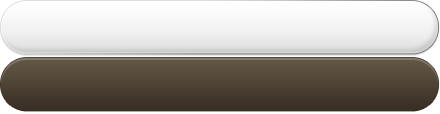
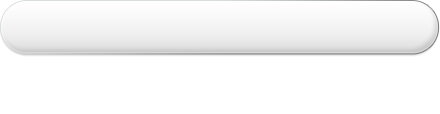
Coming soon button changed

diff --git a/assets/css/styles.css b/assets/css/styles.css
@@ -31,20 +31,7 @@ a:focus {
     width: 160px;
     height: 160px;
 }
-.get_notified{
-  width: 440px;
-  height: 57px;
-  margin: auto;
-  /*margin-top: 40px;*/
-  /*float: left;*/
-  background: url(../images/buttons/button.png) left top no-repeat;
-  font-size: 26px;
-  color: #23a889;
-  text-decoration: none;
-  font-weight: 200;
-  text-align: center;
-  line-height: 54px;
-}
+
 /* //End */
 
 .btn {
@@ -454,6 +441,20 @@ select {
 .promo .overview .download-area {
   display: inline-block;
 }
+.promo .overview .get_notified{
+  width: 440px;
+  height: 57px;
+  margin: auto;
+  background: url(../images/buttons/button.png) left top no-repeat;
+  font-size: 26px;
+  color: #23a889;
+  text-decoration: none;
+  font-weight: 200;
+  text-align: center;
+  line-height: 54px;
+  display: inline-block;
+}
+
 .promo .overview .btn-group {
   margin-left: 40px;
 }
@@ -461,8 +462,7 @@ select {
   padding: 0;
   margin-bottom: 15px;
 }
-.promo .overview .btn-group li a {
-  background-color: #317b5e;
+.promo .overview .btn-group li {
   background-repeat: no-repeat;
   background-position: left top;
   -webkit-border-radius: 4px;
@@ -474,20 +474,28 @@ select {
   -webkit-background-clip: padding-box;
   background-clip: padding-box;
   display: block;
-  width: 200px;
-  height: 60px;
+  /*width: 200px;*/
+  width: 440px;
+  height: 57px;
   text-indent: -9999px;
   margin-right: 30px;
+  /*color:#000;*/
 }
-.promo .overview .btn-group li a:hover {
+/*.promo .overview .btn-group li a:hover {
   background-color: #225742;
-}
-.promo .overview .btn-group li.ios-btn a {
+}*/
+.promo .overview .btn-group li.ios-btn {
   background-image: url('../images/buttons/btn-app-store.png');
 }
-.promo .overview .btn-group li.android-btn a {
+.promo .overview .btn-group li.android-btn {
   background-image: url('../images/buttons/btn-google-play.png');
 }
+
+.promo .overview .btn-group li.comingsoon-btn {
+  background-image: url('../images/buttons/button.png');
+  z-index:-1;
+}
+
 .promo .overview .note {
   position: relative;
   color: #317b5e;
@@ -1641,9 +1649,17 @@ select {
   .promo-landscape .overview .summary li {
     text-align: center;
   }
+  .promo .overview .get_notified{
+    width:300px;
+    background-size: 300px;
+    font-size: 18px;
+    line-height: 35px;
+  }
+
 }
+
 /* Small devices (tablets, 768px and up) */
-@media (min-width: 768px) {
+@media (min-width: 768px) and (max-width: 991px){
   .promo .overview {
     text-align: center;
   }

diff --git a/index.html b/index.html
@@ -72,18 +72,8 @@
                         <li>Never bother about ATM</li>
                         <li>Never become a warehouse for the dreaded coins</li>
                     </ul>
-                    <div class="download-area get_notified">
-                        <strong>Coming Soon.</strong> Very soon!
-
-                        <!--<ul class="btn-group list-inline">
-                            <li class="ios-btn"><a href="#">Download from the App Store</a></li>
-                            <li class="android-btn"><a href="#">Get it from Google Play</a></li>
-                        </ul>-->
-                        <!--<div class="note text-center">
-                            <p>30% OFF - Now only $0.99<br />Offer ends 31st March</p>
-                            <span class="left-arrow"></span>
-                            <span class="right-arrow"></span>
-                        </div>--><!--//note-->
+                    <div class="get_notified">
+                        <p><strong>Coming Soon.</strong> Very soon!</p>
                     </div>
                 </div><!--//overview-->
                 
